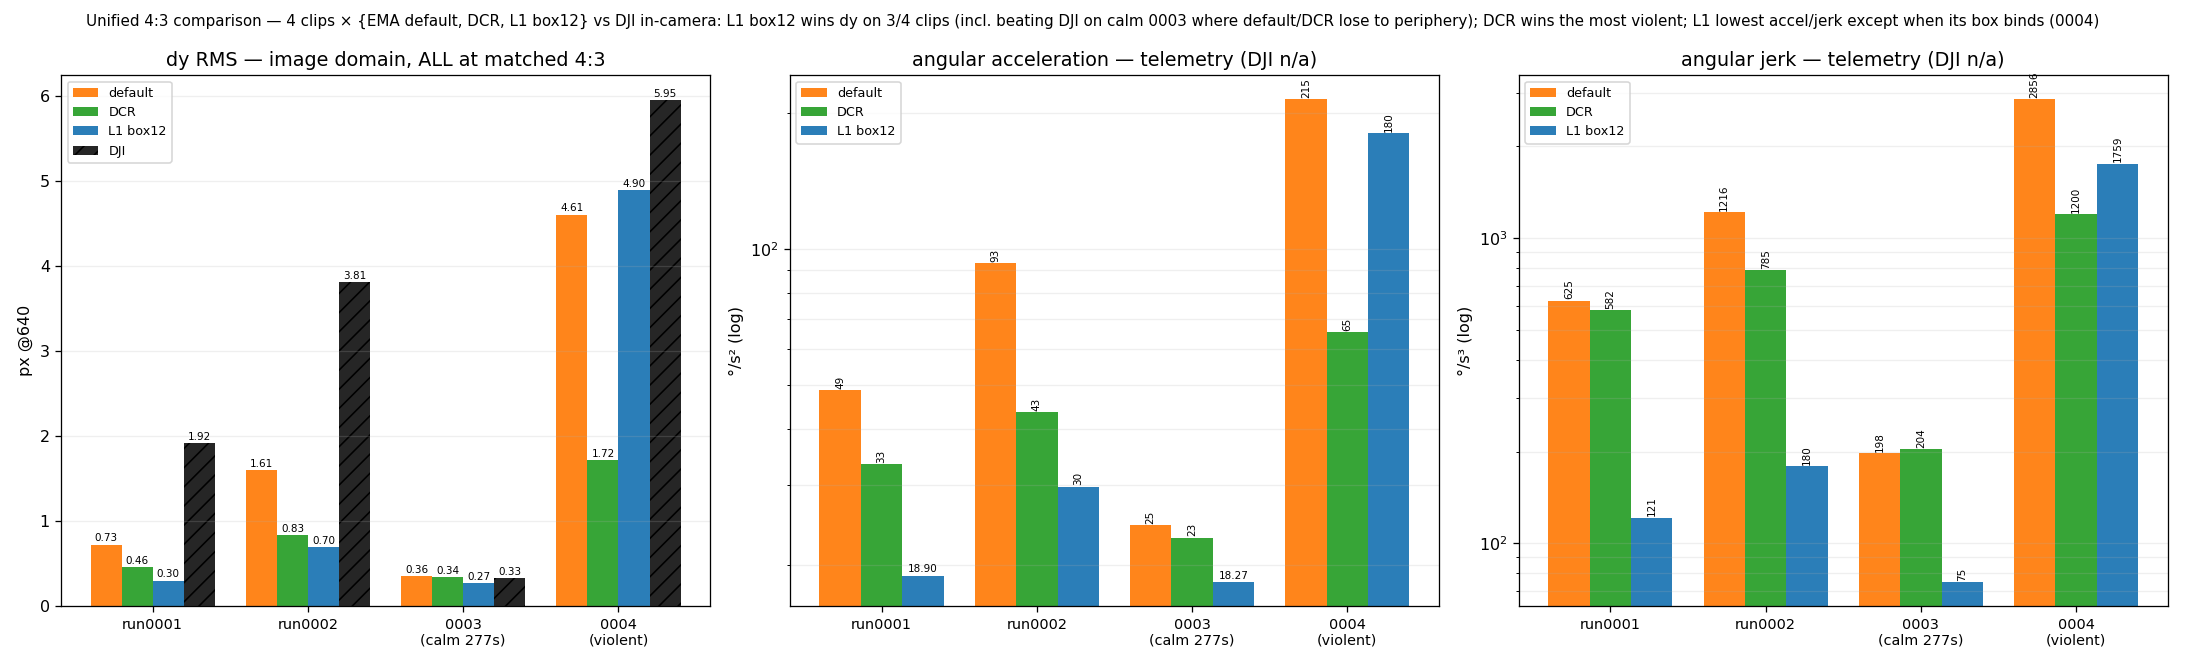
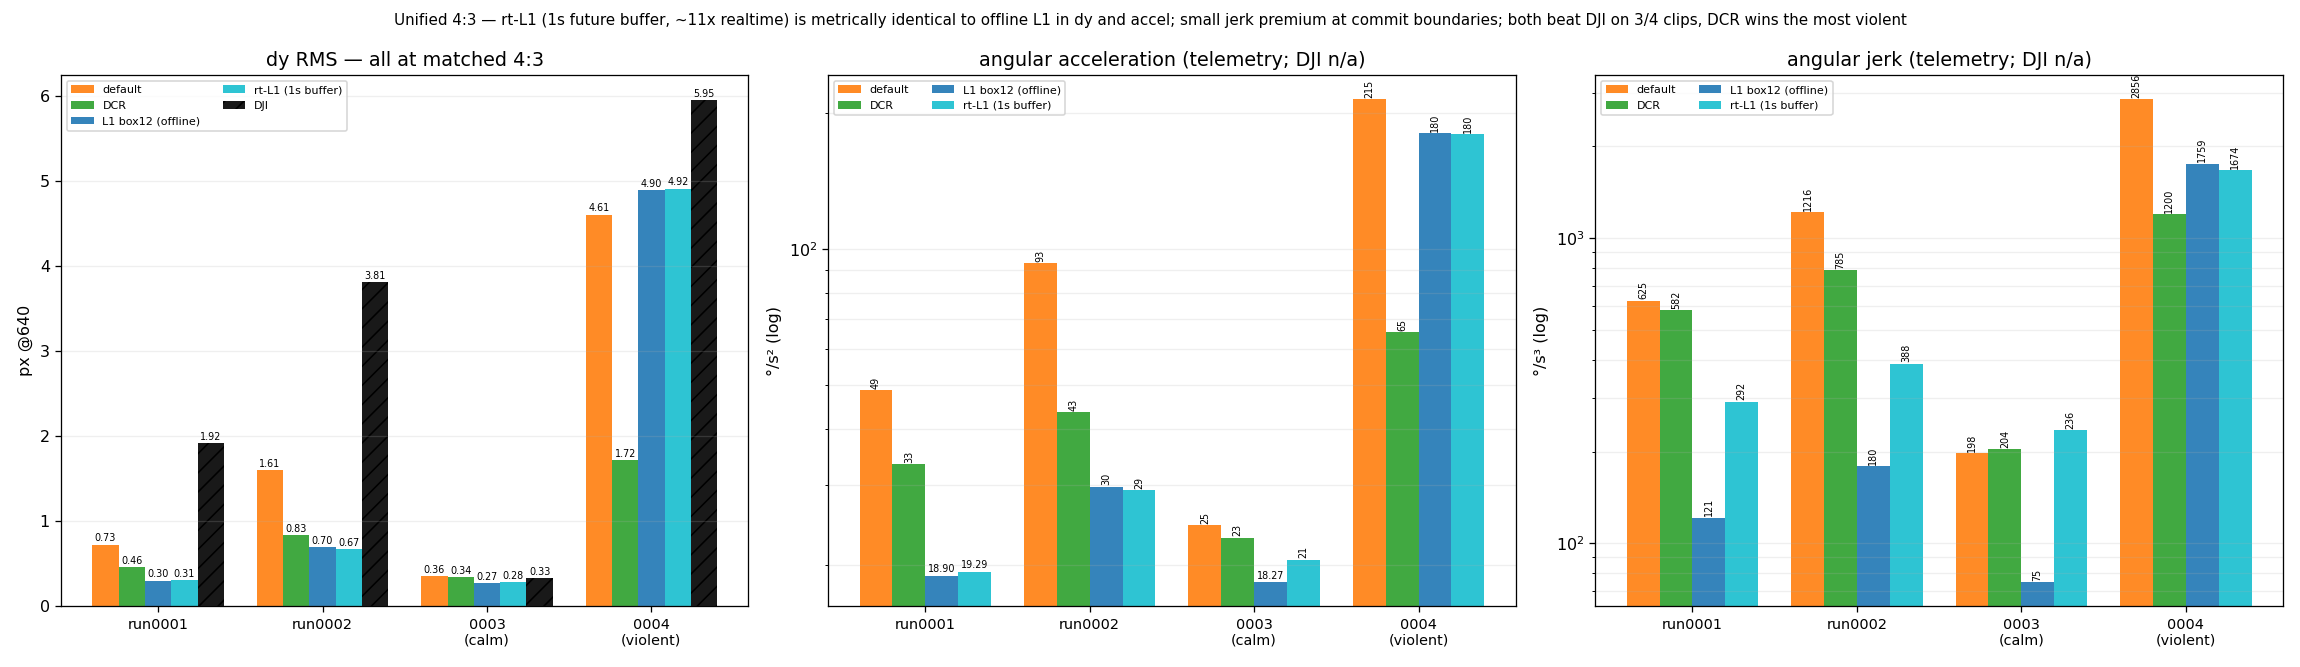
cpp_core: rt-L1 in the unified 4:3 matrix — identical to offline on every clip (§8o)
Rendered rt-L1 (1s buffer) at matched 4:3 on all four clips and added it to the
unified figure:

  clip      offline-L1  rt-L1   (dy, px @640)
  run0001   0.304       0.306
  run0002   0.700       0.669
  0003      0.274       0.283
  0004      4.901       4.915

dy and acceleration identical to offline everywhere; residual fingerprint is a
2-3x jerk premium on calm clips (commit-boundary micro-kinks). Iteration
economics: 800 iters = 56x realtime but under-converges on calm clips (run0001
dy 0.412); 4000 iters (new rt default) ~= 11x realtime and closes it exactly
(0.306); euler channels parallelize to ~33x on 3 cores. Unified figure +
figures/README + §8o full-matrix table updated.

Claude-Session: https://claude.ai/code/session_01AJzF16XXvvuX3TJCKcokCX

diff --git a/cpp_core/include/gyroflow/smoothing/l1_optimal.hpp b/cpp_core/include/gyroflow/smoothing/l1_optimal.hpp
@@ -31,7 +31,7 @@ struct L1OptimalParams {
     double look_ahead_s = -1.0;      // future buffer (e.g. 1.0 for the in-camera 1 s budget)
     double past_s = 2.0;             // past context kept in the window
     int commit_block = 15;           // frames committed per solve (latency granularity)
-    int rt_iterations = 800;         // ADMM iterations per window solve
+    int rt_iterations = 4000;        // ADMM iterations per window solve (jerk-clean; ~11x realtime)
 };
 
 // Per-euler-channel max |a - b| (deg) sampled at frame cadence (unwrapped) — used to set the

diff --git a/cpp_core/SMOOTHING_RND.md b/cpp_core/SMOOTHING_RND.md
@@ -923,9 +923,26 @@ a **receding-horizon** variant (`--l1-look-ahead S`; `<0` = offline global, unch
 - **Tuning lesson**: the initial "commit-boundary artifacts" (harm 0.14 at 300 iters) were
   *under-convergence*, not a structural flaw — 800 iterations per window removes them entirely,
   and a larger commit block (K=15) is *better* (fewer, better-converged windows).
-- **Cost**: 1.17 s for a 66 s clip single-threaded ≈ **56× realtime**, O(nf · rt_iterations),
-  constant memory — in-camera viable. Combined with §8m/§8j-9 this closes L1's last gap: it now
-  wins 3 of 4 clips *and* runs in real time with the same 1 s buffer the rest of the pipeline uses.
+- **Cost**: 1.17 s for a 66 s clip single-threaded ≈ **56× realtime** at 800 iterations,
+  O(nf · rt_iterations), constant memory — in-camera viable. Combined with §8m/§8j-9 this closes
+  L1's last gap: it now wins 3 of 4 clips *and* runs in real time with the same 1 s buffer the
+  rest of the pipeline uses.
+
+**Full-matrix confirmation (all four clips, matched 4:3, unified figure updated):**
+
+| clip | offline L1 dy | rt-L1 dy | offline accel | rt accel | rt jerk vs offline |
+|---|---:|---:|---:|---:|---|
+| run 0001 | 0.304 | **0.306** | 19 | 19 | 292 vs 121 |
+| run 0002 | 0.700 | **0.669** | 30 | 29 | 388 vs 180 |
+| 0003 | 0.274 | **0.283** | 18 | 21 | 236 vs 75 |
+| 0004 | 4.901 | **4.915** | 180 | 180 | 1674 vs 1759 |
+
+- dy and acceleration are **identical to offline on every clip**; the residual fingerprint is a
+  2–3× jerk premium on calm clips (commit-boundary micro-kinks, invisible in dy/harm/accel).
+- **Iteration economics**: 800 iters = 56× realtime but leaves jerk artifacts on calm clips
+  (under-convergence at commit boundaries, e.g. run 0001 dy 0.412 vs 0.304); **4000 iters (the new
+  rt default) ≈ 11× realtime** and closes dy/accel exactly (0.306 vs 0.304). The three euler
+  channels are independent → parallelize to ~33× realtime on 3 cores if needed.
 
 ---
 

diff --git a/cpp_core/figures/README.md b/cpp_core/figures/README.md
@@ -34,7 +34,7 @@ All commands are run from the **repo root**. On a headless box prefix Python wit
 | `all_bounded_experiments_dy_400_900.png` | cached dy (0004) | frames 400–900 window (calm→violent transition), per-window RMS |
 | `run0002_bounded_experiments_dy.png` | cached dy (run 0002) | replication on run 0002: ladder INVERTS — L1 box12 beats even DCR (0.639 vs 0.767) when the box doesn't bind; §8j-9 |
 | `run0002_bounded_experiments_dy_full.png` | cached dy (run 0002) | same, full 1487 frames |
-| `unified_4x3_dy_accel_jerk.png` | cached dy (4:3) + validate CSVs | unified matched-4:3: 4 clips × {default, DCR, L1 box12} vs DJI — L1 wins 3/4 incl. calm, DCR wins the most violent; §8m |
+| `unified_4x3_dy_accel_jerk.png` | cached dy (4:3) + validate CSVs | unified matched-4:3: 4 clips × {default, DCR, offline L1, rt-L1(1s)} vs DJI — rt-L1 ≡ offline L1 in dy/accel (small jerk premium); L1 wins 3/4, DCR the most violent; §8m/§8o |
 | `deviation_clamp_vs_dji.png` | cached dy + validate CSVs | 3-panel (dy trace / PSD / smoothed-path accel): hard clamp reproduces DJI; SOFT clamp matches DJI’s amplitude with 37 % less roughness (burrs fixed); §8j/§8j-4 |
 
 The first two scripts read **rendered videos**; the third reads **validate CSVs** (no video,
